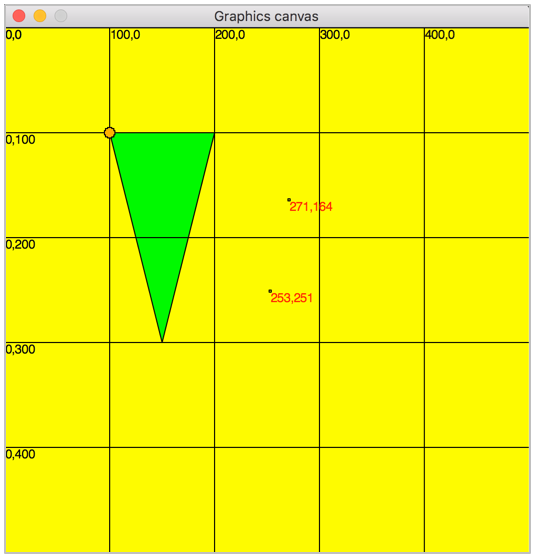
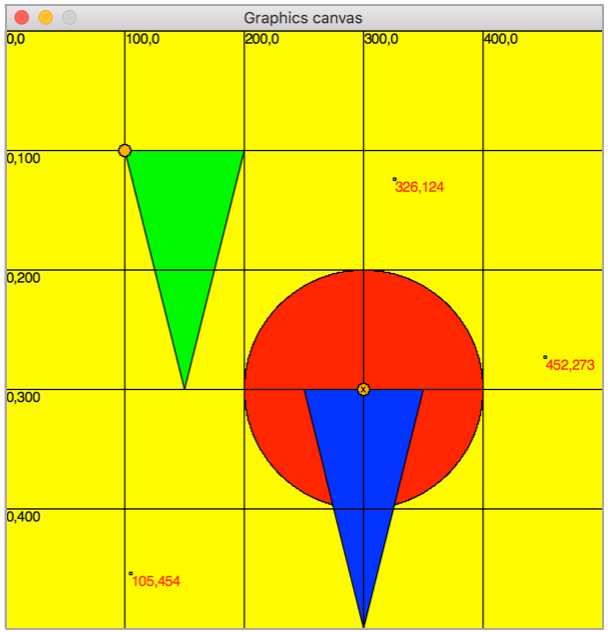
Mark layer's reference points with an 'x'; screenshot to reflect changes.

Changed region(s): [[0.0, 0.0, 1.0, 1.0], [0.6292, 0.2752, 0.7491, 0.3058]]

diff --git a/cs1graphicsHelper.py b/cs1graphicsHelper.py
@@ -1,19 +1,42 @@
 from cs1graphics import *
 
+# Example usage:
+#   drawReferencePoints(canvas)
+#   drawGrid(canvas,100)
+#   markClicks(canvas)
+#
+# markClicks can slow things down, so toggle it on/off as needed
+#
+# Read more: https://github.com/susanBuck/cs1graphics-helper
+
 
 def drawReferencePoints(canvas):
     ''' Loops through every element on a given canvas and marks the
     reference point of that element with a small orange circle'''
 
     for el in canvas.getContents():
+        
         refPoint  = el.getReferencePoint()
         refMarker = Circle(5, refPoint)
-        refMarker.setDepth(-999)
+        refMarker.setDepth(-998)
         refMarker.setFillColor('orange')
         canvas.add(refMarker)
 
 
+        if 'Layer' in str(type(el)):
+            refMarker.setBorderColor('black')
+            label = Text('x',fontsize=8)
+            labelDimensions = label.getDimensions()
+            label.adjustReference(-labelDimensions[0]/2,-labelDimensions[1]/2)
+            label.moveTo(refPoint.getX()-4,refPoint.getY()-5)
+            label.setDepth(-999)
+            canvas.add(label)
+
+        
+
+
 def drawGrid(canvas, division = 100):
+    ''' Draws a grid on the canvas of width/height division '''
 
     width  = canvas.getWidth()
     height = canvas.getHeight()
@@ -52,6 +75,7 @@ def drawGrid(canvas, division = 100):
 
 
 def makeLabel(startX,startY):
+    ''' Helper function used to produce a text label at an x,y coord. '''
     fontSize = 10
     label = Text(str(startX) + ',' + str(startY),fontSize)
     labelDimensions = label.getDimensions()
@@ -62,7 +86,8 @@ def makeLabel(startX,startY):
 
 
 def markClicks(canvas):
-
+    ''' Marks the x,y coordinates of wherever the mouse clicks;
+    good for finding exact pixel coordinates on the canvas. '''
     while True:
 
         clickListener = canvas.wait();

diff --git a/demo.py b/demo.py
@@ -3,12 +3,14 @@ from cs1graphicsHelper import *
 
 # Reference points:
 # Layer: 0,0
-# Polygon: First point of the polygon.
+# Polygon: First point of the polygon
 # Square: Center
 # Rectangle: Center
 # Circle: Center
 
 paper = Canvas(500,500,'yellow')
+
+
 
 # Draws a green polygon (cone)
 # Note the reference point is the first point in the polygon
@@ -20,6 +22,8 @@ def example0():
 
 example0()
 
+
+
 # Draws an blue polygon (cone) in a Layer
 # Note reference point is 0,0
 def example1():
@@ -27,9 +31,11 @@ def example1():
     cone = Polygon(Point(-50,0), Point(50,0), Point(0,200))
     cone.setFillColor('blue')
     toybox.add(cone)
+    toybox.moveTo(200,200)
     paper.add(toybox)
 
 #example1()
+
 
 
 # Draws a blue polygon (cone) and a red circle on a Layer
@@ -45,9 +51,12 @@ def example2():
     cone.setFillColor('blue')
     toybox.add(cone)
 
+    toybox.moveTo(300,300)
+    #print toybox.getReferencePoint()
     paper.add(toybox)
 
-#example2()
+example2()
+
 
 
 # Invoke helper functions as the last step
